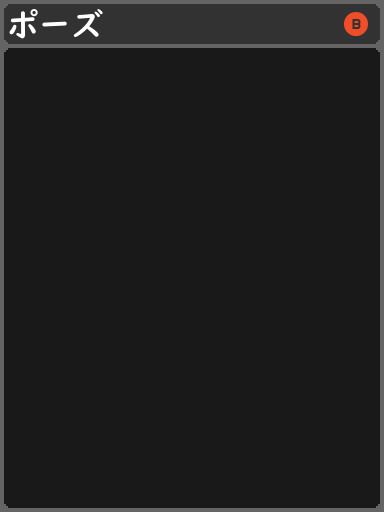
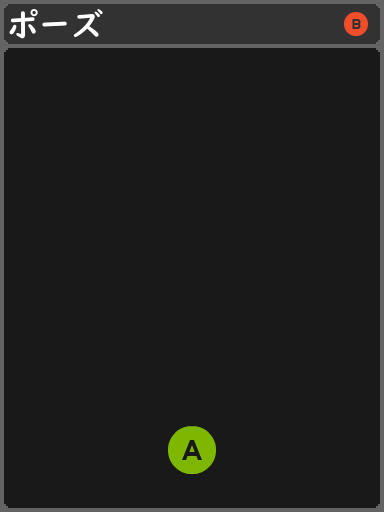
UIをGamePadとMouseで分ける

Changed region(s): [[0.4375, 0.8125, 0.5625, 0.9375]]

diff --git a/project/Engine/Input/InputManager..cpp b/project/Engine/Input/InputManager..cpp
@@ -146,14 +146,17 @@ void InputManager::SetupDefaultBindings() {
 
 	// マップオープン
 	bindings_[Action::MAP_OPEN].push_back(InputBinding(InputSource::KEYBOARD, DIK_F));
-	bindings_[Action::MAP_OPEN].push_back(InputBinding(InputSource::GAMEPAD_BUTTON, GamePad::BACK));
+	bindings_[Action::MAP_OPEN].push_back(InputBinding(InputSource::GAMEPAD_BUTTON, GamePad::R));
 
 	// しゃがみ
 	bindings_[Action::CROUCHING].push_back(InputBinding(InputSource::KEYBOARD, DIK_LSHIFT));
 	bindings_[Action::CROUCHING].push_back(InputBinding(InputSource::GAMEPAD_BUTTON, GamePad::L));
 
-	bindings_[Action::Y].push_back(InputBinding(InputSource::GAMEPAD_BUTTON, GamePad::Y));
-	bindings_[Action::R].push_back(InputBinding(InputSource::GAMEPAD_BUTTON, GamePad::R));
+	bindings_[Action::UI_CHANGE].push_back(InputBinding(InputSource::KEYBOARD, DIK_C));
+	bindings_[Action::UI_CHANGE].push_back(InputBinding(InputSource::GAMEPAD_BUTTON, GamePad::BACK));
+
+	bindings_[Action::GO_SPAWN_POS].push_back(InputBinding(InputSource::KEYBOARD, DIK_R));
+	bindings_[Action::GO_SPAWN_POS].push_back(InputBinding(InputSource::GAMEPAD_BUTTON, GamePad::Y));
 
 	// セレクト
 	bindings_[Action::SELECT_UP].push_back(InputBinding(InputSource::KEYBOARD, DIK_W));

diff --git a/project/Application/GameUI/GameSceneUI/GameSceneUI.cpp b/project/Application/GameUI/GameSceneUI/GameSceneUI.cpp
@@ -364,6 +364,11 @@ void GameSceneUI::Update() {
 	startText_->SetPosition(MyEasing::Lerp(startTextMin_, startTextMax_, startTimer_.GetProgress(), EaseType::EaseOutInSine));
 	startText_->Update();
 
+	if (MyInput::UseGamePad()) {
+		pauseBg_->SetTexture("UI/game/pauseBg.png");
+	} else {
+		pauseBg_->SetTexture("UI/game/pauseBg2.png");
+	}
 	pauseBg_->Update();
 	back_->Update();
 	restart_->Update();
@@ -393,7 +398,7 @@ void GameSceneUI::Update() {
 		resultRestart_->SetScale(resultMax_);
 	}
 
-	if (MyInput::Trigger(Action::R)) {
+	if (MyInput::Trigger(Action::UI_CHANGE)) {
 		if (isTextDraw_) {
 			isTextDraw_ = false;
 		} else {

diff --git a/project/Application/SceneManager/SceneManager.cpp b/project/Application/SceneManager/SceneManager.cpp
@@ -76,7 +76,7 @@ void SceneManager::Initialize() {
 	LineManager::GetInstance()->Initialize();
 
     // 初期シーンを作成
-	currentSceneNo_ = SCENE::TITLE;
+	currentSceneNo_ = SCENE::GAME;
     sceneArr_[static_cast<int>(currentSceneNo_)] = CreateScene(currentSceneNo_);
     if (sceneArr_[static_cast<int>(currentSceneNo_)]) {
         sceneArr_[static_cast<int>(currentSceneNo_)]->Initialize();

diff --git a/project/Application/GameObject/Player/Player.cpp b/project/Application/GameObject/Player/Player.cpp
@@ -113,11 +113,11 @@ void Player::Update() {
 			transform_.translate = startPos_;
 		}
 
-		if (MyInput::Push(Action::Y)) {
+		if (MyInput::Push(Action::GO_SPAWN_POS)) {
 			comeBackTimer_ += deltaTime_;
 			MyInput::SetVibration(1.0f, 1.0f, 0.1f);
 
-			if (comeBackTimer_ >= 5.0f) {
+			if (comeBackTimer_ >= 2.0f) {
 				comeBackTimer_ = 0.0f;
 				transform_.translate = startPos_;
 			}

diff --git a/project/Application/GameObject/Player/UpgradeManager/UpgradeManager.cpp b/project/Application/GameObject/Player/UpgradeManager/UpgradeManager.cpp
@@ -153,6 +153,12 @@ void UpgradeManager::Update() {
 	// 選択中のUIを強調表示
 	UpdateUpgradeUI();
 
+	if (MyInput::UseGamePad()) {
+		bg_->SetTexture("UI/game/selectBG.png");
+	} else {
+		bg_->SetTexture("UI/game/selectBG2.png");
+	}
+
 	bg_->Update();
 	upgradeSelectText_->Update();
 	upgradeBG1_->Update();

diff --git a/project/Application/GameUI/TitleSceneUI/TitleSceneUI.cpp b/project/Application/GameUI/TitleSceneUI/TitleSceneUI.cpp
@@ -120,6 +120,13 @@ void TitleSceneUI::Update() {
 	scaleTimer_.Update();
 
 	play_->Update();
+
+	if (MyInput::UseGamePad()) {
+		editBG_->SetTexture("UI/title/editBG.png");
+	} else {
+		editBG_->SetTexture("UI/title/editBG2.png");
+	}
+
 	edit_->Update();
 	quit_->Update();
 	logo_->Update();

diff --git a/project/Engine/Input/InputManager.h b/project/Engine/Input/InputManager.h
@@ -16,8 +16,8 @@ enum class Action {
 	CROUCHING,
 	MAP_OPEN,
 
-	R,
-	Y,
+	UI_CHANGE,
+	GO_SPAWN_POS,
 
 	// セレクト
 	SELECT_UP,
